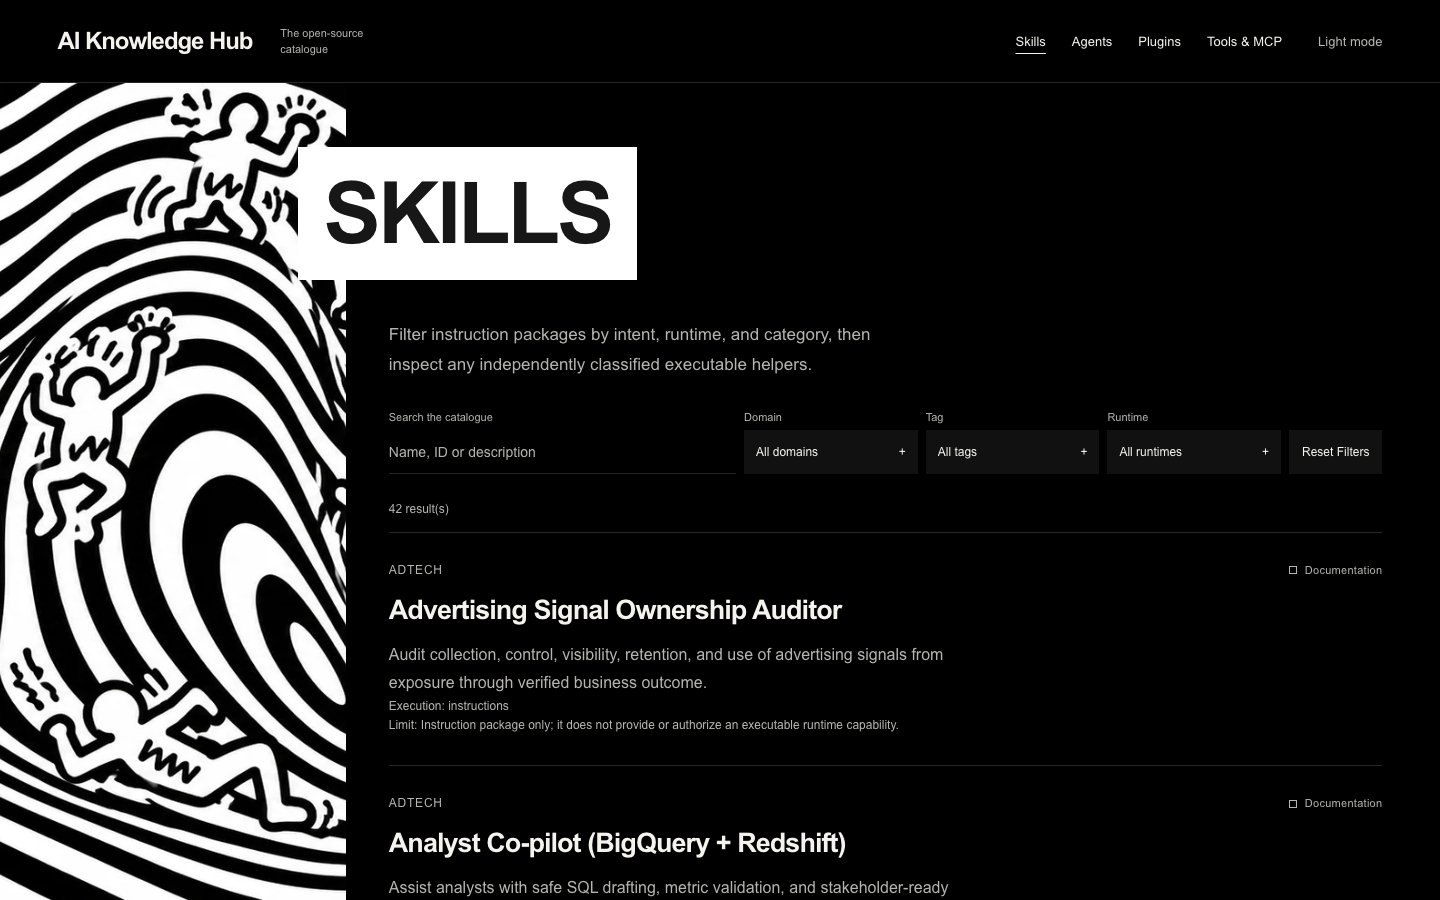
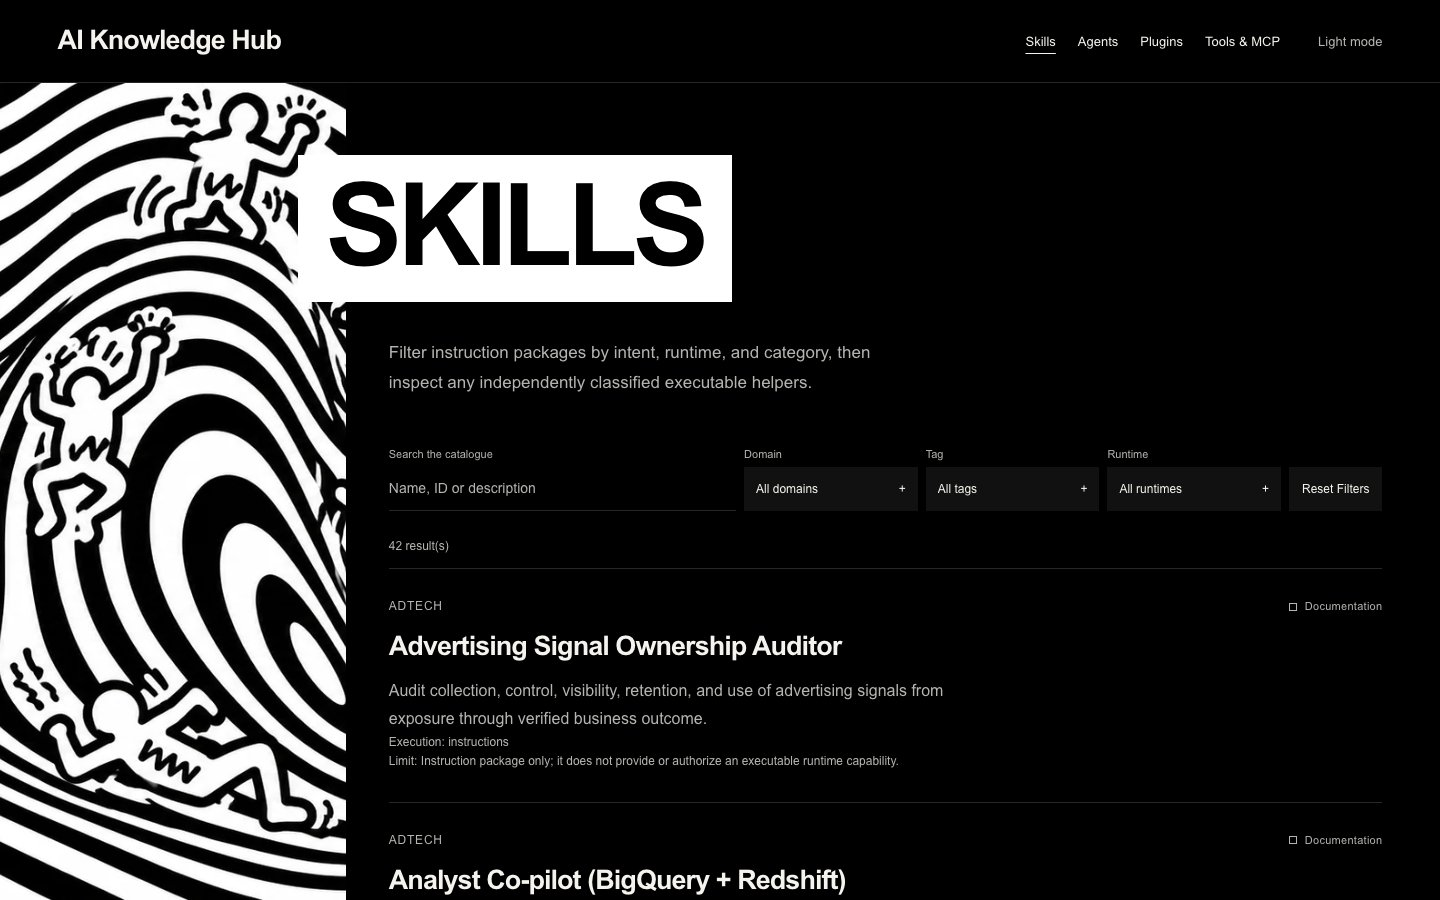
Align catalogue frame with the publication Library

diff --git a/apps/web/app/globals.css b/apps/web/app/globals.css
@@ -24,17 +24,18 @@ main:focus { outline: none; }
 .skip-link { position: fixed; z-index: 100; left: 16px; top: 12px; padding: 14px 20px; background: var(--ink); color: var(--paper); transform: translateY(-150%); }
 .skip-link:focus { transform: none; }
 .site-header { position: sticky; top: 0; z-index: 50; background: var(--paper); border-bottom: 1px solid var(--line); }
-.header-inner { max-width: 1600px; padding-inline: var(--gutter); min-height: var(--header-height); margin: auto; display: flex; align-items: center; gap: 28px; }
-.wordmark { font-size: 24px; font-weight: 700; letter-spacing: -.045em; line-height: 1.1; white-space: nowrap; min-height: 44px; display: inline-flex; align-items: center; }
+.header-inner { padding-inline: var(--gutter); min-height: var(--header-height); display: flex; align-items: center; gap: 30px; }
+.wordmark { font-size: 27px; font-weight: 700; letter-spacing: -.035em; line-height: 1.1; white-space: nowrap; min-height: 44px; display: inline-flex; align-items: center; }
 .wordmark:hover { text-decoration: none; }
-.header-descriptor { font-size: 11px; color: var(--ink-soft); max-width: 95px; line-height: 1.5; }
-.desktop-nav { margin-left: auto; display: flex; gap: 26px; }
+.desktop-nav { margin-left: auto; display: flex; gap: 22px; }
 .desktop-nav a, .theme-toggle { min-height: 44px; display: inline-flex; align-items: center; font-size: 13px; white-space: nowrap; }
 .desktop-nav a[aria-current] { text-decoration: underline; text-underline-offset: 7px; }
 .theme-toggle { border: 0; padding: 0; background: none; color: var(--ink-soft); margin-left: 8px; }
 .theme-toggle:hover { color: var(--ink); }
 .mobile-menu { display: none; }
-.site-footer { border-top: 1px solid var(--line); padding-block: 32px 40px; display: flex; flex-wrap: wrap; gap: 12px 28px; align-items: center; }
+.site-footer { border-top: 1px solid var(--line); background: var(--paper); }
+.footer-inner { padding-block: 32px 40px; display: flex; flex-wrap: wrap; gap: 12px 28px; align-items: center; }
+.catalogue-main ~ .site-footer .footer-inner { max-width: calc(1030px + 2 * var(--gutter)); margin: 0; }
 .footer-wordmark { font-weight: 700; letter-spacing: -.045em; font-size: 24px; }
 .site-footer p { font-size: 12px; }
 .site-footer nav { margin-left: auto; display: flex; gap: 28px; font-size: 12px; }
@@ -106,33 +107,32 @@ a.catalog-card:hover { text-decoration: none; }
 .is-template-only::before { border-style: dashed; }
 /* A shared optical frontispiece; no arbitrary module-to-motif mapping. */
 .catalogue-main { isolation: isolate; position: relative; max-width: none; padding-top: 0; }
-.catalogue-heading { position: relative; max-width: 1440px; margin: auto; padding-top: 64px; min-height: 300px; }
-.catalogue-heading::before { content: ''; position: absolute; left: calc(-1 * var(--gutter)); top: 0; width: min(39vw, 540px); height: 420px; background: #fff url('/brand/folded-field-960.webp') center / cover no-repeat; z-index: -1; }
-.catalogue-heading h1 { display: inline-block; padding: 20px 26px; background: #fff; color: #171717; font-size: clamp(46px, 6vw, 86px); text-transform: uppercase; margin-left: clamp(20px, 14vw, 200px); }
-.catalogue-heading > p { margin-left: 30%; margin-top: 28px; max-width: 56ch; font-size: 17px; background: var(--paper); padding: 12px 0 18px 26px; }
-.catalogue-content { position: relative; background: var(--paper); max-width: 1030px; margin: 0 auto; padding-left: 26px; margin-left: max(25%, calc((100% - 1440px) / 2 + 360px)); }
+.catalogue-heading { position: relative; padding-block: 0 36px; background: var(--paper); }
+.catalogue-heading::before { content: ''; display: block; margin-inline: calc(-1 * var(--gutter)); width: calc(100% + 2 * var(--gutter)); height: 240px; background: #fff url('/brand/folded-field-960.webp') center / cover no-repeat; }
+.catalogue-heading h1 { position: relative; display: table; padding: 16px 28px 22px; background: #fff; color: #000; font-size: clamp(76px, 8vw, 124px); line-height: .95; font-weight: 900; letter-spacing: -.045em; text-transform: uppercase; margin-top: -32px; max-width: 100%; overflow-wrap: anywhere; }
+.catalogue-heading > p { margin-top: 36px; max-width: 56ch; font-size: 17px; background: var(--paper); }
+.catalogue-content { position: relative; background: var(--paper); max-width: 1030px; }
 .catalogue-artwork { display: none; }
 /* The rail belongs to main, so its sticky panel stops before the footer.
-   Compact/portrait layouts retain the existing artwork heading. */
+   Compact/portrait layouts use a band above the reading surface. */
 @media (min-width: 1000px) and (min-aspect-ratio: 4/5) {
   .catalogue-main {
     --catalogue-sticky-top: calc(var(--header-height) + 1px); /* Header's bottom border. */
-    --catalogue-rail-width: clamp(220px, 24vw, 380px);
-    --catalogue-rail-gap: clamp(28px, 3vw, 48px);
     padding-inline: 0;
   }
   .companion-main::before { display: none; background-image: none; }
   .companion-content { margin-left: var(--catalogue-rail-width); padding-inline: var(--catalogue-rail-gap) var(--gutter); }
   .companion-content > * { max-width: 1030px; }
-  .companion-intro { padding-top: 54px; }
+  .companion-intro { padding-top: 72px; }
   .catalogue-artwork { display: block; position: absolute; inset: 0 auto 0 0; width: var(--catalogue-rail-width); z-index: -1; pointer-events: none; }
   .catalogue-artwork-panel { position: sticky; top: var(--catalogue-sticky-top); height: calc(100svh - var(--catalogue-sticky-top)); max-height: 100%; background: #fff url('/brand/folded-field-1600.webp') 81% center / auto 100% no-repeat; }
-  .catalogue-main .catalogue-heading { max-width: none; }
+  .catalogue-main .catalogue-heading { max-width: none; padding-top: 72px; background: none; }
   .catalogue-heading::before { content: none; background-image: none; }
-  .catalogue-heading h1 { margin-left: calc(var(--catalogue-rail-width) - 48px); max-width: calc(100% - var(--catalogue-rail-width) + 48px - var(--gutter)); }
+  .catalogue-heading h1 { margin-top: 0; margin-left: calc(var(--catalogue-rail-width) - 48px); max-width: calc(100% - var(--catalogue-rail-width) + 48px - var(--gutter)); }
   .catalogue-heading > p { margin-left: var(--catalogue-rail-width); max-width: calc(56ch + var(--catalogue-rail-gap) + var(--gutter)); padding-inline: var(--catalogue-rail-gap) var(--gutter); }
   .catalogue-main .catalogue-content { margin-left: var(--catalogue-rail-width); margin-right: 0; max-width: none; padding-inline: var(--catalogue-rail-gap) var(--gutter); }
   .catalogue-content > * { max-width: 1030px; }
+  .catalogue-main ~ .site-footer .footer-inner { max-width: none; margin: 0; padding-left: calc(var(--catalogue-rail-width) + var(--catalogue-rail-gap)); padding-right: max(var(--gutter), calc(100% - var(--catalogue-rail-width) - var(--catalogue-rail-gap) - 1030px)); }
 }
 .filters { display: grid; grid-template-columns: minmax(180px, 2fr) repeat(3, minmax(100px, 1fr)) auto; gap: 8px; align-items: end; padding-block: 14px 26px; }
 .search-label { display: grid; gap: 7px; font-size: 11px; color: var(--ink-soft); }
@@ -194,10 +194,8 @@ a.catalog-card:hover { text-decoration: none; }
 .error-page { padding-block: 100px; }
 .error-page > p { margin-top: 24px; }
 @media (max-width: 1150px) {
-  .header-descriptor { display: none; }
   .header-inner { gap: 20px; }
   .desktop-nav { gap: 20px; }
-  .catalogue-content { margin-left: 21%; }
   .filters { grid-template-columns: repeat(3, 1fr); }
   .search-label { grid-column: 1 / -1; }
   .filters > .button { grid-column: 1 / -1; justify-self: start; }
@@ -216,10 +214,10 @@ a.catalog-card:hover { text-decoration: none; }
   .mobile-menu nav a { display: flex; align-items: center; min-height: 48px; font-size: 18px; }
   .mobile-menu nav a[aria-current] { text-decoration: underline; text-underline-offset: 5px; }
   .section-head { flex-wrap: wrap; gap: 8px 20px; }
-  .catalogue-heading { padding-top: 38px; min-height: 0; padding-bottom: 24px; }
-  .catalogue-heading::before { width: min(78vw, 400px); height: 245px; }
-  .catalogue-heading h1 { font-size: clamp(36px, 9vw, 62px); margin-left: 18px; padding: 16px 20px; max-width: calc(100% - 18px); }
-  .catalogue-heading > p { margin: 28px 0 0 10%; padding: 16px 0 12px 20px; font-size: 16px; }
+  .catalogue-heading { padding-bottom: 24px; }
+  .catalogue-heading::before { height: 180px; }
+  .catalogue-heading h1 { font-size: clamp(36px, 9vw, 62px); padding: 16px 20px; }
+  .catalogue-heading > p { margin-top: 28px; padding: 0; font-size: 16px; }
   .catalogue-content { margin: 0; padding: 0; max-width: none; }
   .filters { grid-template-columns: repeat(3, minmax(0, 1fr)); }
   .input { font-size: 16px; }
@@ -231,7 +229,7 @@ a.catalog-card:hover { text-decoration: none; }
   .detail-install-lead { padding: 20px; margin-inline: -8px; margin-top: 32px; }
   .detail-grid { grid-template-columns: 1fr; gap: 32px; margin-top: 40px; }
   .breadcrumb { margin-bottom: 24px; }
-  .site-footer { padding-block: 24px; gap: 16px 24px; }
+  .footer-inner { padding-block: 24px; gap: 16px 24px; }
   .site-footer nav { width: 100%; margin: 0; gap: 24px; flex-wrap: wrap; }
   .site-footer p { width: 100%; }
 }

diff --git a/apps/web/components/SiteFooter.tsx b/apps/web/components/SiteFooter.tsx
@@ -2,10 +2,12 @@ import { brand } from "@/lib/brand";
 
 export default function SiteFooter() {
   return (
-    <footer className="site-footer wrap">
-      <a className="footer-wordmark" href="/">{brand.name}</a>
-      <p>Practical work, shared openly.</p>
-      <nav aria-label="Related sites"><a href={brand.publication}>Read the publication</a><a href={brand.repository}>View the source</a></nav>
+    <footer className="site-footer">
+      <div className="footer-inner wrap">
+        <a className="footer-wordmark" href="/">{brand.name}</a>
+        <p>Practical work, shared openly.</p>
+        <nav aria-label="Related sites"><a href={brand.publication}>Read the publication</a><a href={brand.repository}>View the source</a></nav>
+      </div>
     </footer>
   );
 }

diff --git a/apps/web/components/SiteHeader.tsx b/apps/web/components/SiteHeader.tsx
@@ -68,7 +68,6 @@ export default function SiteHeader() {
     <header className="site-header">
       <div className="header-inner">
         <Link href="/" className="wordmark" aria-label={`${brand.name} home`}>{brand.name}</Link>
-        <span className="header-descriptor">The open-source catalogue</span>
         <nav className="desktop-nav" aria-label="Main navigation">{links}</nav>
         <button className="theme-toggle" type="button" aria-label={`Switch to ${theme === "dark" ? "light" : "dark"} mode`} onClick={toggleTheme}>
           {theme === "dark" ? "Light mode" : "Dark mode"}

diff --git a/apps/web/app/page.tsx b/apps/web/app/page.tsx
@@ -33,7 +33,7 @@ export default async function HomePage() {
       <CatalogueArtwork />
       <div className="companion-content">
         <header className="companion-intro">
-          <p className="eyebrow">AI Knowledge Hub · Practical resources</p>
+          <p className="eyebrow">The open-source catalogue</p>
           <h1>Put the ideas<br />to work.</h1>
           <p>Skills, tools and templates to accompany the publication. Explore the source and adapt the work to your own context.</p>
           <div className="actions">

diff --git a/apps/web/app/tokens.css b/apps/web/app/tokens.css
@@ -13,6 +13,8 @@
   --gutter: clamp(20px, 4vw, 64px);
   --header-height: 82px;
   --content-width: 1440px;
+  --catalogue-rail-width: clamp(220px, 24vw, 380px);
+  --catalogue-rail-gap: clamp(28px, 3vw, 48px);
 }
 :root[data-theme="light"] {
   color-scheme: light;

diff --git a/docs/practical-companion-landing.md b/docs/practical-companion-landing.md
@@ -149,3 +149,42 @@ sizes: 1000×768, 1024×768, 1440×900, 1600×900, 1920×1080, 390×844, 768×10
 central half. No page exceptions were observed.
 
 [Home, light](reviews/oval-artwork-2026-11-02/home-1440-light.jpg) · [Skills, dark](reviews/oval-artwork-2026-11-02/skills-1440-dark.jpg)
+
+## Shared Library frame — 2 November 2026
+
+The owner approved aligning the companion's frame with the publication Library.
+The masthead now spans the viewport, with a 27px desktop wordmark and the four
+catalogue navigation links. “The open-source catalogue” moves into Home's
+introduction. Home retains its smaller “Put the ideas to work” heading.
+
+Catalogue pages use a larger white title plate, overlapping the desktop rail by
+48px. Introductions, filters, result counts, entries and the footer share the
+reading edge. The footer border spans the viewport; its content follows the
+rail on catalogue routes and retains the normal page gutter on detail pages.
+Compact and portrait catalogues use a full-width artwork band with a 32px title
+overlap and a solid reading surface below it. The band is 180px tall on phones
+and 240px on larger compact layouts; Home retains its shallow existing band.
+
+The selected desktop oval crop (`81% center`), 24vw rail (380px maximum), artwork
+bytes, module navigation, filters, install commands, article relationships and
+readiness information remain in place. This changes layout and introductory
+placement; it adds no runtime request, dependency or theme-state writer.
+
+Verification against the local Node 20 production build:
+
+- Build, lint/types and Markdown/diff checks pass.
+- All 33 existing browser tests pass, including keyboard navigation, readable
+  but write-blocked theme storage, filters, copy feedback and article links.
+  The rail/footer regression also passes after the final compact-footer fix.
+- 80 artwork/reflow views cover Home and the four catalogues in both themes;
+  the selected oval remains inside the rail's central half in all 50 rail views.
+- 144 additional views cover Home, the four catalogues and BigQuery details at
+  12 viewport sizes, from 320px through 1920px, including wide portrait screens.
+  No sampled horizontal overflow or clipped heading text; catalogue
+  introductions, filters, entries and footer retain their shared reading edge.
+- The original artwork and both WebP hashes are unchanged. React review retains
+  server-rendered content, the existing theme/menu logic and semantic links.
+
+Chrome verification is bounded; this is not a cross-browser accessibility audit.
+
+[Home, light](reviews/oval-artwork-2026-11-02/home-1440-light.jpg) · [Skills, dark](reviews/oval-artwork-2026-11-02/skills-1440-dark.jpg) · [Phone catalogue](reviews/oval-artwork-2026-11-02/tools-390-light.jpg) · [Footer](reviews/oval-artwork-2026-11-02/footer-1440-light.jpg)
